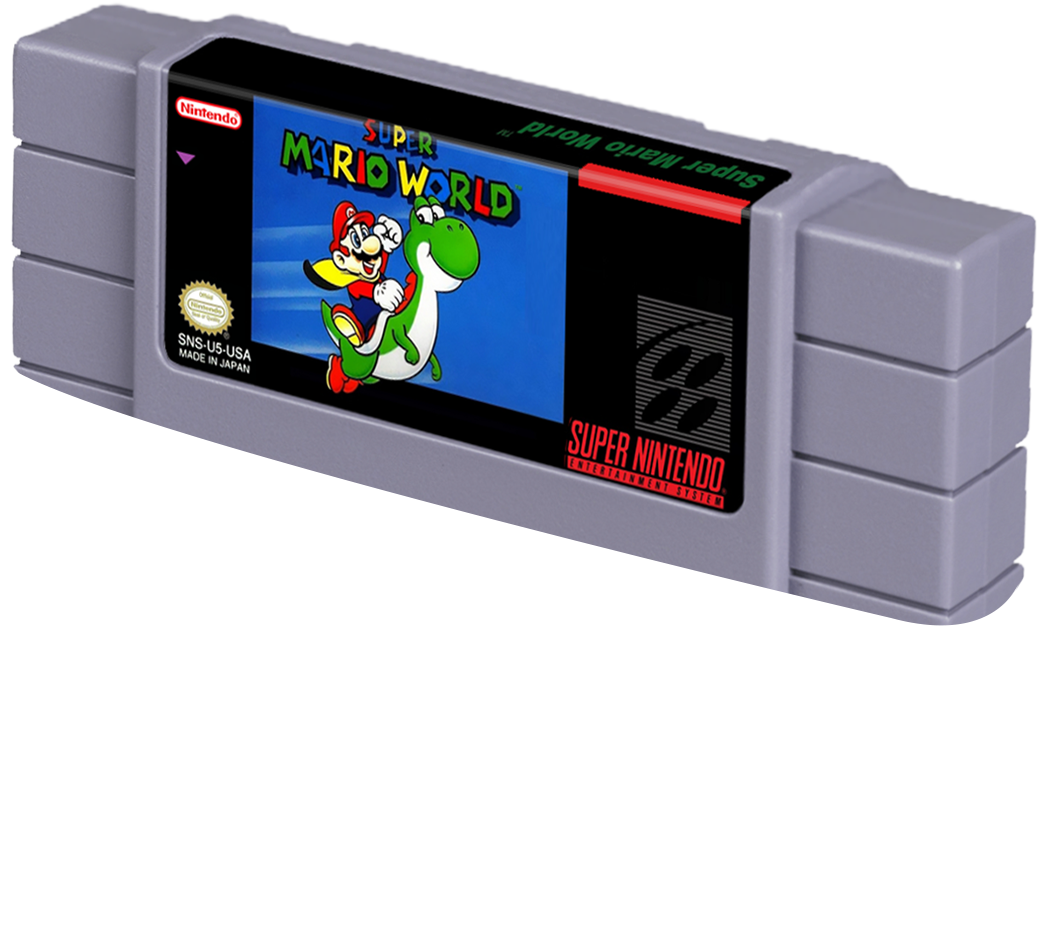
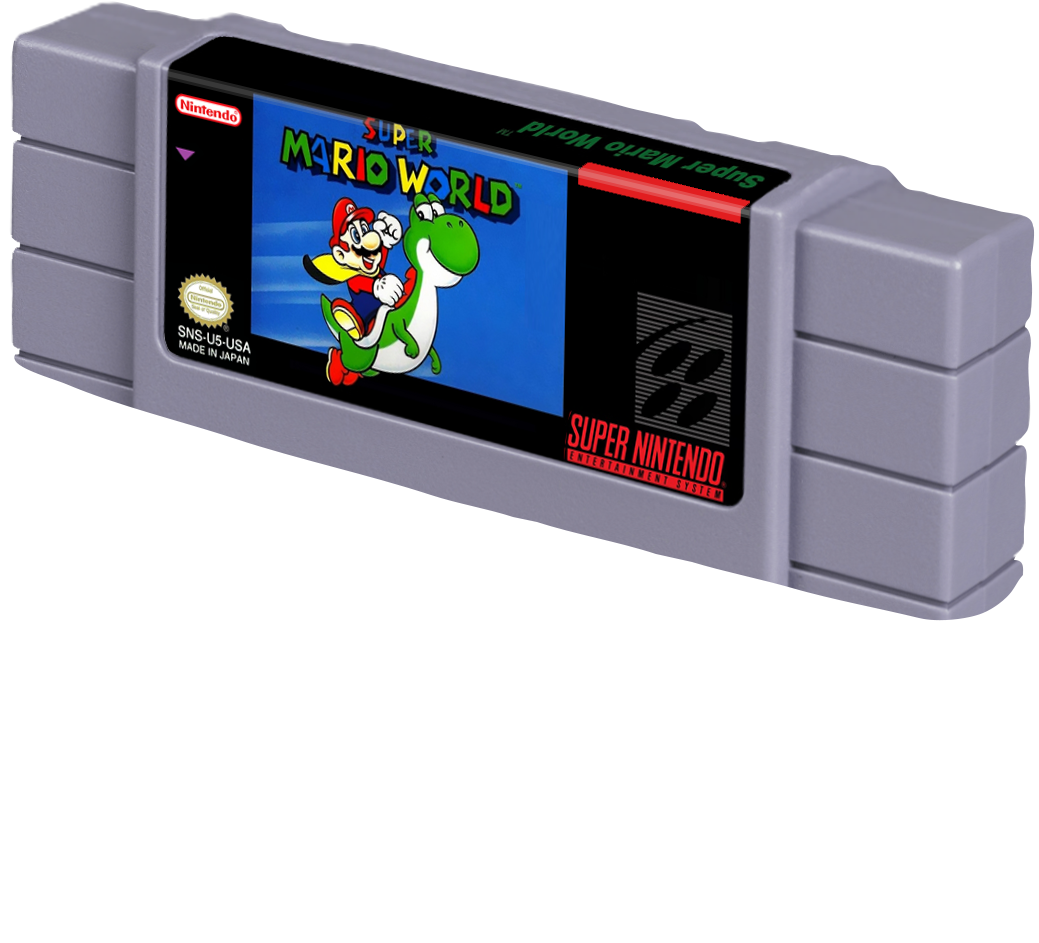
Drag and drop fully working with all games

diff --git a/js/configurator/components/games.js b/js/configurator/components/games.js
@@ -5,6 +5,7 @@ const settings = {
     },
     games: ["super-mario-world", "mega-man-7", "maximum-carnage", "killer-instinct", "dracula-x"],
     gameId: 1,
+    gameInserted: null,
 };
 
 export function games() {
@@ -21,13 +22,15 @@ function makeGameOption(game, template) {
     const clone = template.cloneNode(true);
     const gameOptionList = document.querySelector("[data-option=games]");
 
-    clone.querySelector(".c-option");
+    // Add images
+    clone.querySelector("img[data-image=top]").src = `images/cartridges/${game}-top.png`;
+    clone.querySelector("img[data-image=bottom]").src = `images/cartridges/${game}.png`;
 
-    // Add image
-    // clone.querySelector(".c-option__image").src = `images/cartridges/${game}.png`;
-    // TEST:
-    clone.querySelector("img[data-image=top]").src = `images/cartridges/super-mario-world-top.png`;
-    clone.querySelector("img[data-image=bottom]").src = `images/cartridges/super-mario-world-bottom.png`;
+    // Add ID
+    clone.querySelector(".c-option__image-container").setAttribute("data-game-id", settings.gameId);
+
+    // Count up
+    settings.gameId++;
 
     // Show sticker option
     gameOptionList.append(clone);
@@ -73,11 +76,18 @@ function makeEditable() {
                 let gameY = parseFloat(gameYposition.substring(firstComma + 2, lastComma - 2)).toFixed(2);
                 console.log(gameY, "vs", test);
 
+                // If snapped
                 if (test === gameY) {
                     console.log("SNAP");
+                    game.querySelector("[data-image=top]").style.top = "-10px";
+                    game.querySelector("[data-image=top]").style.transform = "skewY(-2deg)";
                     game.querySelector("[data-image=bottom]").style.opacity = "0";
+                    game.setAttribute("data-snapped", "true");
                 } else {
                     game.querySelector("[data-image=bottom]").style.opacity = "1";
+                    game.querySelector("[data-image=top]").style.top = "";
+                    game.querySelector("[data-image=top]").style.transform = "";
+                    game.setAttribute("data-snapped", "false");
                 }
             },
             onDragEnd: function (event) {
@@ -92,6 +102,7 @@ function makeEditable() {
                 let gameY = parseFloat(gameYposition.substring(firstComma + 2, lastComma - 2)).toFixed(2);
                 console.log(gameY, "vs", test);
 
+                // Go back if not snapped
                 if (gameY !== test) {
                     TweenLite.to(this.target, {
                         width: gamePosition.width,
@@ -99,6 +110,22 @@ function makeEditable() {
                         y: 0,
                         x: 0,
                     });
+                } else {
+                    // Check if any other game is snapped / inserted
+                    if (settings.gameInserted && settings.gameInserted !== this.target) {
+                        console.log("go away");
+                        TweenLite.to(settings.gameInserted, {
+                            width: gamePosition.width,
+                            height: gamePosition.height,
+                            y: 0,
+                            x: 0,
+                        });
+                        settings.gameInserted.querySelector("[data-image=bottom]").style.opacity = "1";
+                        settings.gameInserted.querySelector("[data-image=top]").style.top = "";
+                        settings.gameInserted.querySelector("[data-image=top]").style.transform = "";
+                        settings.gameInserted.setAttribute("data-snapped", "false");
+                    }
+                    settings.gameInserted = this.target;
                 }
             },
         });

diff --git a/configurator.html b/configurator.html
@@ -73,7 +73,7 @@
 
 <template class="t-game-option">
     <li class="c-option c-option--game">
-        <div class="c-option__image-container">
+        <div class="c-option__image-container" data-snapped="false">
         <img data-image="top" src="#" alt="" class="c-option__image c-option__image--game">
         <img data-image="bottom" src="#" alt="" class="c-option__image c-option__image--game">
         </div>

diff --git a/css/configurator.css b/css/configurator.css
@@ -170,8 +170,8 @@ img {
 
 .c-option__image-container {
     position: absolute;
-    height: 100%;
-    width: 100%;
+    height: calc(100% - 0.25rem);
+    width: calc(100% - 0.25rem);
 }
 
 .c-option {
